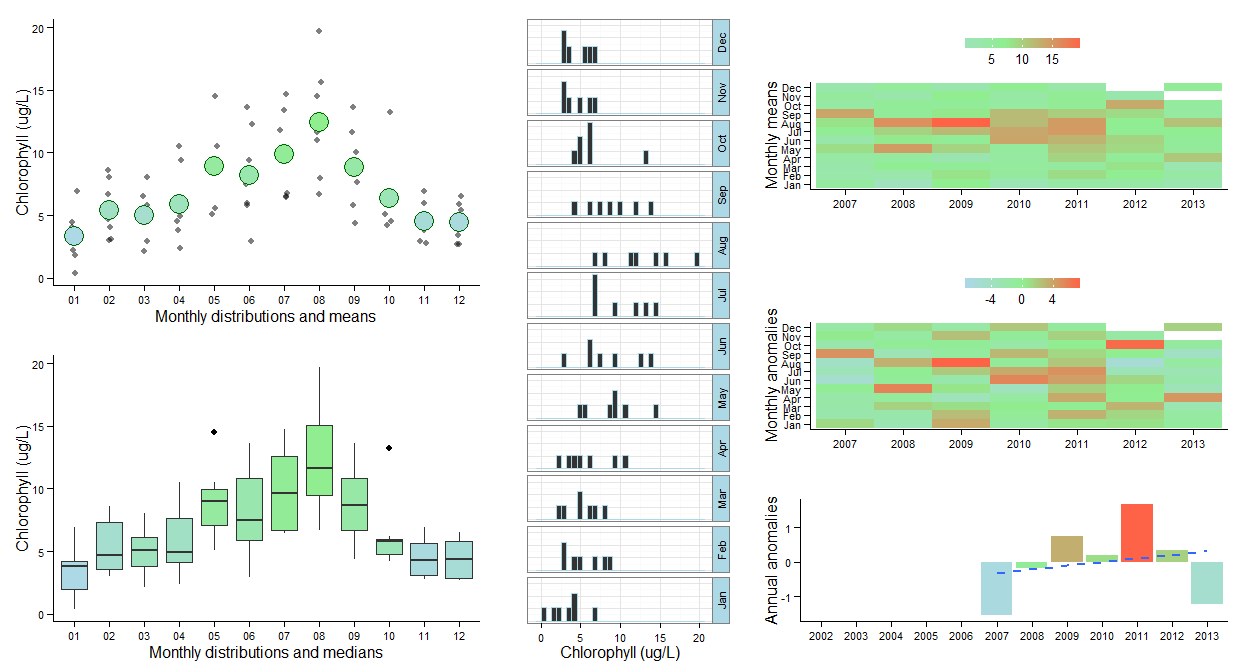
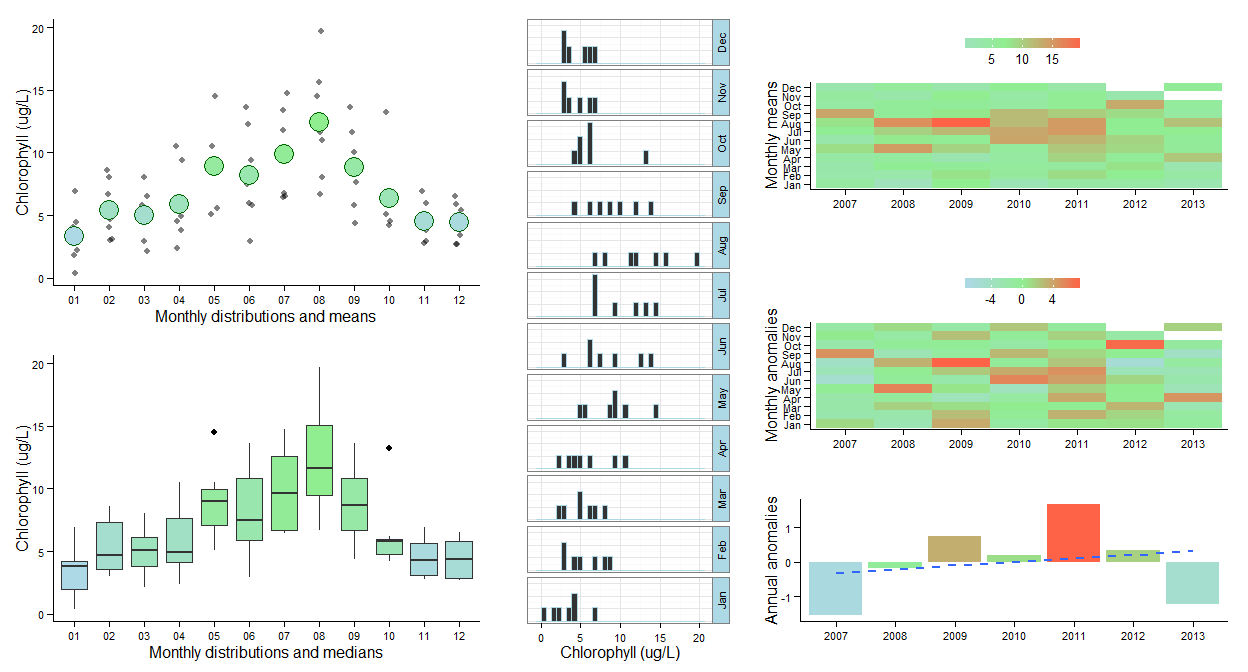
added fix to plot_summary to plot same years on anomaly graphs

Changed region(s): [[0.625, 0.75, 1.0, 0.9688]]

diff --git a/README.html b/README.html
@@ -338,10 +338,10 @@ data(apacpnut)
 dat &lt;- qaqc(apacpnut)
 
 ## plot
-plot_summary(dat, param = &#39;chla_n&#39;)</code></pre>
+plot_summary(dat, param = &#39;chla_n&#39;, years = c(2007, 2013))</code></pre>
 <p><img src="README_files/figure-html/unnamed-chunk-21.png" alt="plot of chunk unnamed-chunk-21" /></p>
 <p>Estimates of ecosystem metabolism provide a useful measure of overall system productivity. These estimates are commonly used to evaluate whether an ecosystem is a net source or sink of organic material. The open-water method is a common approach to quantify net ecosystem metabolism using a mass balance equation that describes the change in dissolved oxygen over time from the balance between photosynthetic and respiration rates, corrected for air-sea gas diffusion at the surface. The diffusion-corrected DO flux estimates are averaged during day and night for each 24 hour period in the time series, where flux is an hourly rate of DO change. DO flux is averaged during night hours for respiration and averaged during day hours for net production. Respiration rates are assumed constant during day and night such that total daily rates are calculated as hourly respiration multiplied by 24. The metabolic day is considered the 24 hour period between sunsets on two adjacent calendar days. Respiration is subtracted from daily net production estimates to yield gross production.</p>
-<p>The <code>ecometab</code> function is used to implement an adaptation of the open-water method.<br />Several assumptions must be met for a valid interpretation of the results. In general, the dissolved oxygen time series is assumed to represent the same water mass over time. Tidal advection may have a significant influence on the time series, which can contribute to a significant amount of noise in metabolic estimates. The extent to which tidal advection influences the dissolved oxygen signal depends on various site-level characteristics and an intimate knowledge of the site may be required. Volumetric rates for gross production and total respiration are also based on total depth of the water column, which is assumed to be mixed. Water column depth is based on mean value for the depth variable across the time series and is floored at 1 meter for very shallow stations. Additionally, the volumetric reaeration coefficient requires an estimate of the anemometer height of the weather station, which is set as 10 meters by default. The metadata should be consulted for exact height. Other assumptions may apply and the user should consult the relevant literature (see the references in the help file). All estimates are in mmol of oxygen but can be converted to grams by changing the default arguments (i.e., 1mmol O2 = 32 mg O2, 1000 mg = 1g, multiply all estimates by 32/1000).</p>
+<p>The <code>ecometab</code> function is used to implement an adaptation of the open-water method. Several assumptions must be met for a valid interpretation of the results. In general, the dissolved oxygen time series is assumed to represent the same water mass over time. Tidal advection may have a significant influence on the time series, which can contribute to a significant amount of noise in metabolic estimates. The extent to which tidal advection influences the dissolved oxygen signal depends on various site-level characteristics and an intimate knowledge of the site may be required. Volumetric rates for gross production and total respiration are also based on total depth of the water column, which is assumed to be mixed. Water column depth is based on mean value for the depth variable across the time series and is floored at 1 meter for very shallow stations. Additionally, the volumetric reaeration coefficient requires an estimate of the anemometer height of the weather station, which is set as 10 meters by default. The metadata should be consulted for exact height. Other assumptions may apply and the user should consult the relevant literature (see the references in the help file). All estimates are in mmol of oxygen but can be converted to grams by changing the default arguments (i.e., 1mmol O2 = 32 mg O2, 1000 mg = 1g, multiply all estimates by 32/1000).</p>
 <p>The following is an example that shows how to use the function from a combined water quality and weather data set. The results can be plotted using <code>plot_metab</code>.</p>
 <pre class="r"><code>## import water quality and weather data
 data(apadbwq)

diff --git a/README.md b/README.md
@@ -398,15 +398,14 @@ data(apacpnut)
 dat <- qaqc(apacpnut)
 
 ## plot
-plot_summary(dat, param = 'chla_n')
+plot_summary(dat, param = 'chla_n', years = c(2007, 2013))
 ```
 
 ![plot of chunk unnamed-chunk-21](README_files/figure-html/unnamed-chunk-21.png) 
 
 Estimates of ecosystem metabolism provide a useful measure of overall system productivity.  These estimates are commonly used to evaluate whether an ecosystem is a net source or sink of organic material.  The open-water method is a common approach to quantify net ecosystem metabolism using a mass balance equation that describes the change in dissolved oxygen over time from the balance between photosynthetic and respiration rates, corrected for air-sea gas diffusion at the surface.  The diffusion-corrected DO flux estimates are averaged during day and night for each 24 hour period in the time series, where flux is an hourly rate of DO change. DO flux is averaged during night hours for respiration and averaged during day hours for net production. Respiration rates are assumed constant during day and night such that total daily rates are calculated as hourly respiration multiplied by 24. The metabolic day is considered the 24 hour period between sunsets on two adjacent calendar days.  Respiration is subtracted from daily net production estimates to yield gross production.  
 
-The `ecometab` function is used to implement an adaptation of the open-water method.  
-Several assumptions must be met for a valid interpretation of the results.  In general, the dissolved oxygen time series is assumed to represent the same water mass over time.  Tidal advection may have a significant influence on the time series, which can contribute to a significant amount of noise in metabolic estimates.  The extent to which tidal advection influences the dissolved oxygen signal depends on various site-level characteristics and an intimate knowledge of the site may be required.  Volumetric rates for gross production and total respiration are also based on total depth of the water column, which is assumed to be mixed.  Water column depth is based on mean value for the depth variable across the time series and is floored at 1 meter for very shallow stations.  Additionally, the volumetric reaeration coefficient requires an estimate of the anemometer height of the weather station, which is set as 10 meters by default.  The metadata should be consulted for exact height. Other assumptions may apply and the user should consult the relevant literature (see the references in the help file).  All estimates are in mmol of oxygen but can be converted  to grams by changing the default arguments (i.e., 1mmol O2 = 32 mg O2, 1000 mg = 1g, multiply all estimates by 32/1000). 
+The `ecometab` function is used to implement an adaptation of the open-water method.  Several assumptions must be met for a valid interpretation of the results.  In general, the dissolved oxygen time series is assumed to represent the same water mass over time.  Tidal advection may have a significant influence on the time series, which can contribute to a significant amount of noise in metabolic estimates.  The extent to which tidal advection influences the dissolved oxygen signal depends on various site-level characteristics and an intimate knowledge of the site may be required.  Volumetric rates for gross production and total respiration are also based on total depth of the water column, which is assumed to be mixed.  Water column depth is based on mean value for the depth variable across the time series and is floored at 1 meter for very shallow stations.  Additionally, the volumetric reaeration coefficient requires an estimate of the anemometer height of the weather station, which is set as 10 meters by default.  The metadata should be consulted for exact height. Other assumptions may apply and the user should consult the relevant literature (see the references in the help file).  All estimates are in mmol of oxygen but can be converted  to grams by changing the default arguments (i.e., 1mmol O2 = 32 mg O2, 1000 mg = 1g, multiply all estimates by 32/1000). 
 
 The following is an example that shows how to use the function from a combined water quality and weather data set.  The results can be plotted using `plot_metab`.
 
